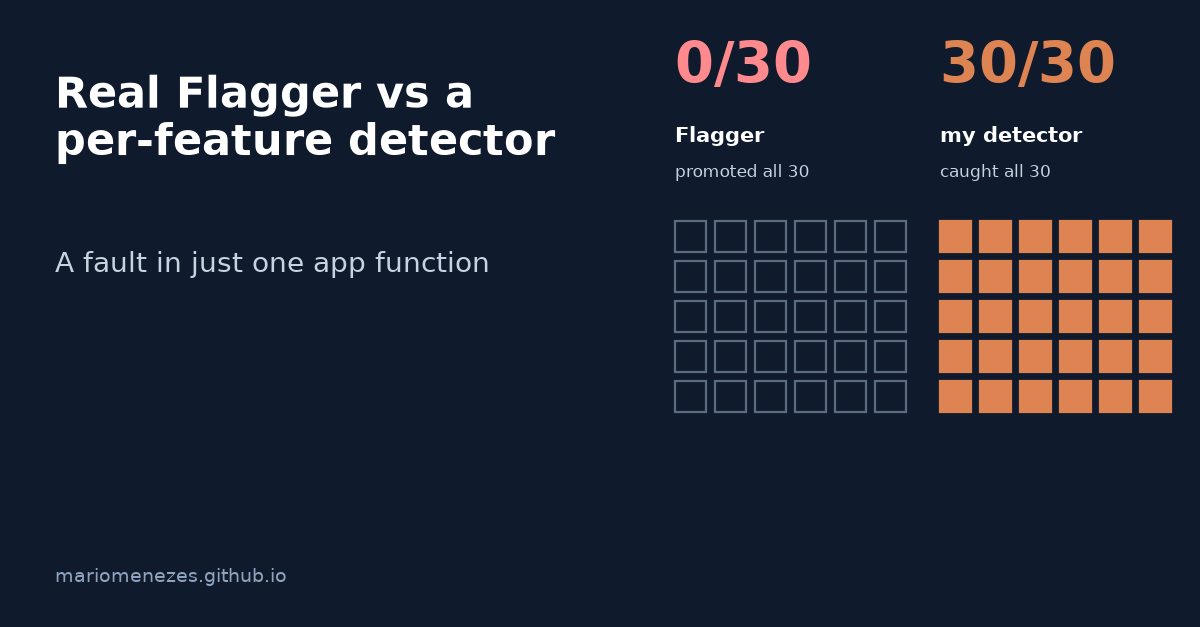
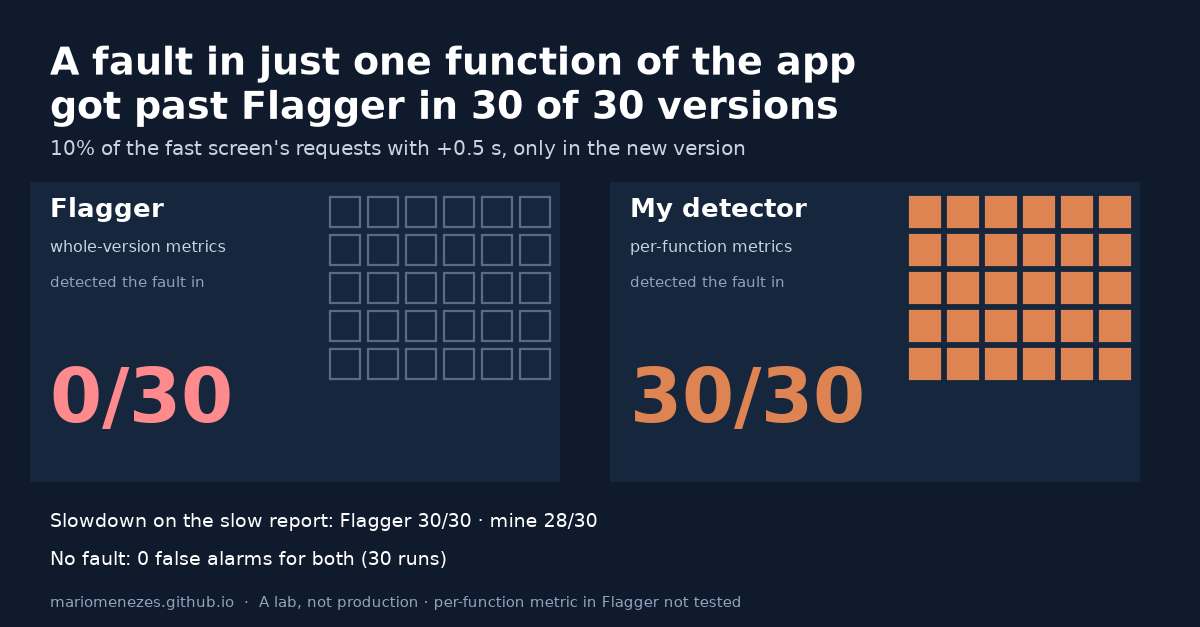
Capa do post do Flagger na horizontal (1200x627), com o conteúdo do cartão; remove o cartão vertical

diff --git a/labs/gray-failure-canary-istio/scripts/make_figures.py b/labs/gray-failure-canary-istio/scripts/make_figures.py
@@ -278,73 +278,40 @@ def grade(ax, x0, y0, hits, n=30, cols=6, size=0.36, gap=0.1, cor=REF, vazio="#5
                                edgecolor=cor if hit else vazio, linewidth=1.6))
 
 
-def linkedin_card(lang):
-    """Cartão vertical 1080x1350 para o feed do LinkedIn (fundo escuro, números grandes, as 30 execuções)."""
-    T = {"pt": dict(tag="LABORATÓRIO · KUBERNETES · ISTIO",
-                    t="Uma falha em uma só função\ndo app passou pelo Flagger\nem 30 de 30 versões",
+def capa_flagger(lang):
+    """Capa horizontal 1200x627 (prévia do link e imagem do post no LinkedIn), com o mesmo conteúdo do cartão vertical."""
+    T = {"pt": dict(t="Uma falha em uma só função do app\npassou pelo Flagger em 30 de 30 versões",
                     sub="10% das requisições da tela rápida com +0,5 s, só na versão nova",
                     fl="Flagger", fls="métricas da versão inteira", me_="Meu detector", mes="métricas por função",
                     cap="detectou a falha em",
-                    hv="Lentidão no relatório lento: Flagger 30/30 · meu 28/30",
-                    ctrl="Sem falha: 0 alarmes falsos nos dois (30 execuções)",
-                    note="Flagger 1.45, análise por versão: p99 canary ÷ primary ≤ 1,15.\nMétrica por função no Flagger não testada. Laboratório, não produção.",
-                    url="mariomenezes.github.io"),
-         "en": dict(tag="LAB · KUBERNETES · ISTIO",
-                    t="A fault in just one function\nof the app got past Flagger\nin 30 of 30 versions",
+                    l1="Lentidão no relatório lento: Flagger 30/30 · meu 28/30",
+                    l2="Sem falha: 0 alarmes falsos nos dois (30 execuções)",
+                    note="Laboratório, não produção · métrica por função no Flagger não testada"),
+         "en": dict(t="A fault in just one function of the app\ngot past Flagger in 30 of 30 versions",
                     sub="10% of the fast screen's requests with +0.5 s, only in the new version",
                     fl="Flagger", fls="whole-version metrics", me_="My detector", mes="per-function metrics",
                     cap="detected the fault in",
-                    hv="Slowdown on the slow report: Flagger 30/30 · mine 28/30",
-                    ctrl="No fault: 0 false alarms for both (30 runs)",
-                    note="Flagger 1.45, per-version analysis: canary ÷ primary p99 ≤ 1.15.\nPer-function metric in Flagger not tested. A lab, not production.",
-                    url="mariomenezes.github.io")}[lang]
-    fl = D["flagger"]["scenarios"]
-    fig = plt.figure(figsize=(10.8, 13.5), dpi=100)
-    fig.patch.set_facecolor(ESCURO)
-    ax = fig.add_axes([0, 0, 1, 1])
-    ax.set_xlim(0, 10.8); ax.set_ylim(0, 13.5); ax.axis("off")
-    ax.text(0.7, 12.75, T["tag"], color="#8FA3BF", fontsize=17, fontweight="bold")
-    ax.text(0.7, 12.3, T["t"], color="white", fontsize=40, fontweight="bold", va="top", linespacing=1.15)
-    ax.text(0.7, 9.65, T["sub"], color="#C9D3E0", fontsize=18.5)
-    # dois blocos
-    for k, (x0, name, sub, hits, cor, numcor) in enumerate((
-            (0.7, T["fl"], T["fls"], fl["dash10"]["flagger"][0], NEUTRO, "#FF8A8D"),
-            (5.75, T["me_"], T["mes"], fl["dash10"]["ours"][0], FOCO, FOCO))):
-        ax.add_patch(Rectangle((x0 - 0.15, 3.15), 4.65, 6.0, facecolor="#16263D", edgecolor="none"))
-        ax.text(x0 + 0.1, 8.6, name, color="white", fontsize=26, fontweight="bold")
-        ax.text(x0 + 0.1, 8.12, sub, color="#C9D3E0", fontsize=16)
-        ax.text(x0 + 0.1, 7.55, T["cap"], color="#8FA3BF", fontsize=15)
-        ax.text(x0 + 0.1, 6.5, f"{hits}/30", color=numcor, fontsize=74, fontweight="bold")
-        grade(ax, x0 + 0.15, 5.75, hits, cor=cor, size=0.46, gap=0.14, cols=6)
-    # a grade tem 5 linhas: de y=5,6 até ~3,0; ajusta o fundo
-    ax.text(0.7, 2.75, T["hv"], color="white", fontsize=19)
-    ax.text(0.7, 2.2, T["ctrl"], color="white", fontsize=19)
-    ax.text(0.7, 1.35, T["note"], color="#8FA3BF", fontsize=14, va="top", linespacing=1.4)
-    ax.text(0.7, 0.35, T["url"], color="#8FA3BF", fontsize=16, fontweight="bold")
-    with plt.rc_context({"savefig.bbox": None}):
-        fig.savefig(path(SLUG_FL, "linkedin", lang, "png"), dpi=100, facecolor=ESCURO)
-    plt.close(fig)
-
-
-def capa_flagger(lang):
-    T = {"pt": ("Flagger real contra\ndetector por feature", "Falha numa só função do app",
-                "Flagger", "meu detector", "promoveu as 30", "detectou as 30"),
-         "en": ("Real Flagger vs a\nper-feature detector", "A fault in just one app function",
-                "Flagger", "my detector", "promoted all 30", "caught all 30")}[lang]
+                    l1="Slowdown on the slow report: Flagger 30/30 · mine 28/30",
+                    l2="No fault: 0 false alarms for both (30 runs)",
+                    note="A lab, not production · per-function metric in Flagger not tested")}[lang]
     fl = D["flagger"]["scenarios"]
     fig = plt.figure(figsize=(12, 6.27), dpi=100)
     fig.patch.set_facecolor(ESCURO)
     ax = fig.add_axes([0, 0, 1, 1])
     ax.set_xlim(0, 12); ax.set_ylim(0, 6.27); ax.axis("off")
-    ax.text(0.55, 5.55, T[0], color="white", fontsize=31, fontweight="bold", va="top", linespacing=1.1)
-    ax.text(0.55, 3.55, T[1], color="#C9D3E0", fontsize=20)
-    ax.text(0.55, 0.45, "mariomenezes.github.io", color="#8FA3BF", fontsize=14)
-    for x0, name, sub, hits, cor, numcor in ((6.75, T[2], T[4], fl["dash10"]["flagger"][0], NEUTRO, "#FF8A8D"),
-                                             (9.4, T[3], T[5], fl["dash10"]["ours"][0], FOCO, FOCO)):
-        ax.text(x0, 5.45, f"{hits}/30", color=numcor, fontsize=40, fontweight="bold")
-        ax.text(x0, 4.85, name, color="white", fontsize=15, fontweight="bold")
-        ax.text(x0, 4.5, sub, color="#C9D3E0", fontsize=12)
-        grade(ax, x0, 3.75, hits, cor=cor, size=0.31, gap=0.09, cols=6)
+    ax.text(0.5, 5.85, T["t"], color="white", fontsize=27, fontweight="bold", va="top", linespacing=1.18)
+    ax.text(0.5, 4.72, T["sub"], color="#C9D3E0", fontsize=14.5)
+    for x0, name, sub, hits, cor, numcor in ((0.5, T["fl"], T["fls"], fl["dash10"]["flagger"][0], NEUTRO, "#FF8A8D"),
+                                             (6.3, T["me_"], T["mes"], fl["dash10"]["ours"][0], FOCO, FOCO)):
+        ax.add_patch(Rectangle((x0 - 0.2, 1.45), 5.3, 3.0, facecolor="#16263D", edgecolor="none"))
+        ax.text(x0, 4.1, name, color="white", fontsize=19, fontweight="bold")
+        ax.text(x0, 3.75, sub, color="#C9D3E0", fontsize=11.5)
+        ax.text(x0, 3.4, T["cap"], color="#8FA3BF", fontsize=11)
+        ax.text(x0, 2.05, f"{hits}/30", color=numcor, fontsize=54, fontweight="bold")
+        grade(ax, x0 + 2.8, 4.0, hits, cor=cor, size=0.30, gap=0.08, cols=6)
+    ax.text(0.5, 1.0, T["l1"], color="white", fontsize=13.5)
+    ax.text(0.5, 0.62, T["l2"], color="white", fontsize=13.5)
+    ax.text(0.5, 0.2, "mariomenezes.github.io  ·  " + T["note"], color="#8FA3BF", fontsize=10.5)
     with plt.rc_context({"savefig.bbox": None}):
         fig.savefig(path(SLUG_FL, "cover", lang, "png"), dpi=100, facecolor=ESCURO)
     plt.close(fig)
@@ -748,9 +715,8 @@ def main():
         fig_ep_req(lang)
         fig_mut(lang)
     capas()
-    for lang in LANGS:  # depois de capas(): substitui a capa genérica do post do Flagger
+    for lang in LANGS:  # depois de capas(): substitui a capa genérica; esta capa horizontal serve também de imagem no LinkedIn
         capa_flagger(lang)
-        linkedin_card(lang)
     print("figuras geradas em", OUT)
 
 
